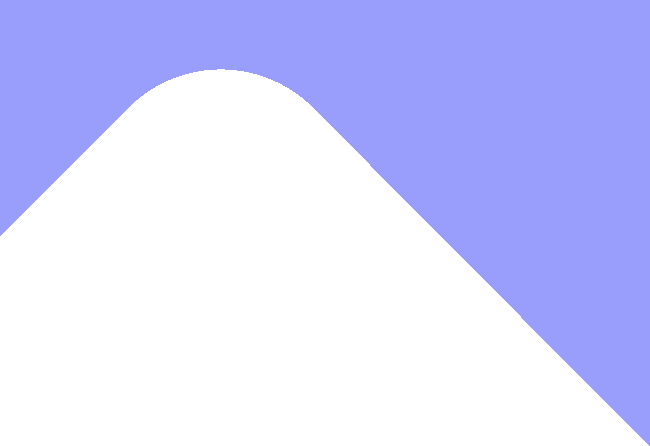
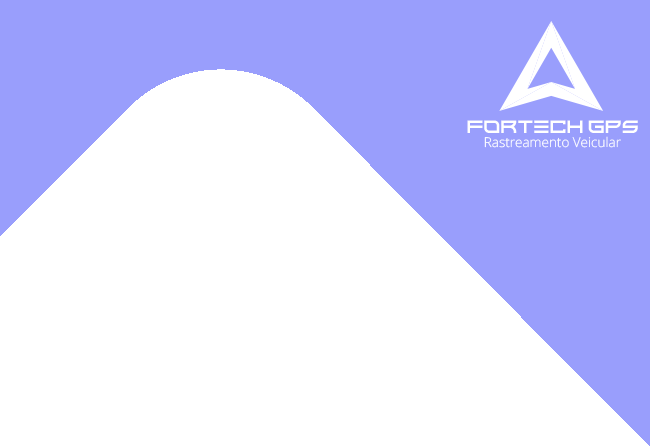
Email.

Changed region(s): [[0.7077, 0.0583, 0.9846, 0.3498]]

diff --git a/resources/views/mail/lembreteCincoDias.blade.php b/resources/views/mail/lembreteCincoDias.blade.php
@@ -1,0 +1,253 @@
+<!DOCTYPE html>
+
+<html lang="en" xmlns:o="urn:schemas-microsoft-com:office:office" xmlns:v="urn:schemas-microsoft-com:vml">
+<head>
+    <title></title>
+    <meta content="text/html; charset=utf-8" http-equiv="Content-Type"/>
+    <meta content="width=device-width, initial-scale=1.0" name="viewport"/>
+    <!--[if mso]><xml><o:OfficeDocumentSettings><o:PixelsPerInch>96</o:PixelsPerInch><o:AllowPNG/></o:OfficeDocumentSettings></xml><![endif]-->
+    <!--[if !mso]><!-->
+    <link href="https://fonts.googleapis.com/css?family=Cabin" rel="stylesheet" type="text/css"/>
+    <link href="https://fonts.googleapis.com/css?family=Montserrat" rel="stylesheet" type="text/css"/>
+    <!--<![endif]-->
+    <style>
+        * {
+            box-sizing: border-box;
+        }
+
+        body {
+            margin: 0;
+            padding: 0;
+        }
+
+        a[x-apple-data-detectors] {
+            color: inherit !important;
+            text-decoration: inherit !important;
+        }
+
+        #MessageViewBody a {
+            color: inherit;
+            text-decoration: none;
+        }
+
+        p {
+            line-height: inherit
+        }
+
+        .desktop_hide,
+        .desktop_hide table {
+            mso-hide: all;
+            display: none;
+            max-height: 0px;
+            overflow: hidden;
+        }
+
+        @media (max-width:670px) {
+            .desktop_hide table.icons-inner {
+                display: inline-block !important;
+            }
+
+            .icons-inner {
+                text-align: center;
+            }
+
+            .icons-inner td {
+                margin: 0 auto;
+            }
+
+            .image_block img.big,
+            .row-content {
+                width: 100% !important;
+            }
+
+            .mobile_hide {
+                display: none;
+            }
+
+            .stack .column {
+                width: 100%;
+                display: block;
+            }
+
+            .mobile_hide {
+                min-height: 0;
+                max-height: 0;
+                max-width: 0;
+                overflow: hidden;
+                font-size: 0px;
+            }
+
+            .desktop_hide,
+            .desktop_hide table {
+                display: table !important;
+                max-height: none !important;
+            }
+        }
+    </style>
+</head>
+<body style="background-color: #000000; margin: 0; padding: 0; -webkit-text-size-adjust: none; text-size-adjust: none;">
+<table border="0" cellpadding="0" cellspacing="0" class="nl-container" role="presentation" style="mso-table-lspace: 0pt; mso-table-rspace: 0pt; background-color: #000000;" width="100%">
+    <tbody>
+    <tr>
+        <td>
+            <table align="center" border="0" cellpadding="0" cellspacing="0" class="row row-2" role="presentation" style="mso-table-lspace: 0pt; mso-table-rspace: 0pt; background-color: #f3e6f8;" width="100%">
+                <tbody>
+                <tr>
+                    <td>
+                        <table align="center" border="0" cellpadding="0" cellspacing="0" class="row-content stack" role="presentation" style="mso-table-lspace: 0pt; mso-table-rspace: 0pt; background-color: #ffffff; background-image: url('https://www.fortechgps.com.br/assets/media/mail/ResetPassword_BG_3.png'); background-position: center top; background-repeat: no-repeat; color: #000000; width: 650px;" width="650">
+                            <tbody>
+                            <tr>
+                                <td class="column column-1" style="mso-table-lspace: 0pt; mso-table-rspace: 0pt; font-weight: 400; text-align: left; vertical-align: top; padding-top: 45px; padding-bottom: 0px; border-top: 0px; border-right: 0px; border-bottom: 0px; border-left: 0px;" width="100%">
+                                    <table border="0" cellpadding="20" cellspacing="0" class="divider_block block-1" role="presentation" style="mso-table-lspace: 0pt; mso-table-rspace: 0pt;" width="100%">
+                                        <tr>
+                                            <td class="pad">
+                                                <div align="center" class="alignment">
+                                                    <table border="0" cellpadding="0" cellspacing="0" role="presentation" style="mso-table-lspace: 0pt; mso-table-rspace: 0pt;" width="100%">
+                                                        <tr>
+                                                            <td class="divider_inner" style="font-size: 1px; line-height: 1px; border-top: 0px solid #BBBBBB;"><span> </span></td>
+                                                        </tr>
+                                                    </table>
+                                                </div>
+                                            </td>
+                                        </tr>
+                                    </table>
+                                    <table border="0" cellpadding="20" cellspacing="0" class="image_block block-2" role="presentation" style="mso-table-lspace: 0pt; mso-table-rspace: 0pt;" width="100%">
+                                        <tr>
+                                            <td class="pad">
+                                                <div align="center" class="alignment" style="line-height:10px"><img alt="Forgot your password?" class="big" src="https://www.fortechgps.com.br/assets/media/mail/lock6.png" style="display: block; height: auto; border: 0; width: 358px; max-width: 100%;" title="Forgot your password?" width="358"/></div>
+                                            </td>
+                                        </tr>
+                                    </table>
+                                    <table border="0" cellpadding="0" cellspacing="0" class="heading_block block-3" role="presentation" style="mso-table-lspace: 0pt; mso-table-rspace: 0pt;" width="100%">
+                                        <tr>
+                                            <td class="pad" style="padding-top:35px;text-align:center;width:100%;">
+                                                <h1 style="margin: 0; color: #2213C0; direction: ltr; font-family: 'Cabin', Arial, 'Helvetica Neue', Helvetica, sans-serif; font-size: 28px; font-weight: 400; letter-spacing: normal; line-height: 120%; text-align: center; margin-top: 0; margin-bottom: 0;"><strong>Olá, Fulano! Tudo bem?</strong></h1>
+                                            </td>
+                                        </tr>
+                                    </table>
+                                    <table border="0" cellpadding="0" cellspacing="0" class="text_block block-4" role="presentation" style="mso-table-lspace: 0pt; mso-table-rspace: 0pt; word-break: break-word;" width="100%">
+                                        <tr>
+                                            <td class="pad" style="padding-left:45px;padding-right:45px;padding-top:10px;">
+                                                <div style="font-family: Arial, sans-serif">
+                                                    <div class="txtTinyMce-wrapper" style="font-size: 12px; font-family: 'Cabin', Arial, 'Helvetica Neue', Helvetica, sans-serif; mso-line-height-alt: 18px; color: #393d47; line-height: 1.5;">
+                                                        <p style="margin: 0; text-align: center; mso-line-height-alt: 27px;"><span style="font-size:18px;color:#2455be;">Sabemos que na correria do dia a dia, pode acontecer de esquecermos alguns compromissos.</span></p>
+                                                        <p style="margin: 0; text-align: center; mso-line-height-alt: 27px;"><span style="font-size:18px;color:#2455be;">Então, com o intuito de te ajudar, vinhemos lembrar que a sua fatura deste mês vence daqui a 5 dia!.</span></p>
+                                                    </div>
+                                                </div>
+                                            </td>
+                                        </tr>
+                                    </table>
+                                    <table border="0" cellpadding="20" cellspacing="0" class="divider_block block-5" role="presentation" style="mso-table-lspace: 0pt; mso-table-rspace: 0pt;" width="100%">
+                                        <tr>
+                                            <td class="pad">
+                                                <div align="center" class="alignment">
+                                                    <table border="0" cellpadding="0" cellspacing="0" role="presentation" style="mso-table-lspace: 0pt; mso-table-rspace: 0pt;" width="80%">
+                                                        <tr>
+                                                            <td class="divider_inner" style="font-size: 1px; line-height: 1px; border-top: 1px solid #E1B4FC;"><span> </span></td>
+                                                        </tr>
+                                                    </table>
+                                                </div>
+                                            </td>
+                                        </tr>
+                                    </table>
+                                    <table border="0" cellpadding="0" cellspacing="0" class="text_block block-6" role="presentation" style="mso-table-lspace: 0pt; mso-table-rspace: 0pt; word-break: break-word;" width="100%">
+                                        <tr>
+                                            <td class="pad" style="padding-bottom:10px;padding-left:45px;padding-right:45px;padding-top:10px;">
+                                                <div style="font-family: Arial, sans-serif">
+                                                    <div class="txtTinyMce-wrapper" style="font-size: 12px; font-family: 'Cabin', Arial, 'Helvetica Neue', Helvetica, sans-serif; text-align: center; mso-line-height-alt: 18px; color: #393d47; line-height: 1.5;">
+                                                        <p style="margin: 0; mso-line-height-alt: 19.5px;"><span style="font-size:13px;color:#2213C0;">Você escolher como quer pagar, Pix, boleto, debito, crédito...</span></p>
+                                                    </div>
+                                                </div>
+                                            </td>
+                                        </tr>
+                                    </table>
+                                    <table border="0" cellpadding="10" cellspacing="0" class="button_block block-7" role="presentation" style="mso-table-lspace: 0pt; mso-table-rspace: 0pt;" width="100%">
+                                        <tr>
+                                            <td class="pad">
+                                                <div align="center" class="alignment">
+                                                    <!--[if mso]><v:roundrect xmlns:v="urn:schemas-microsoft-com:vml" xmlns:w="urn:schemas-microsoft-com:office:word" href="https://www.fortechgps.com.br/Recuperar/kkkkkkkk" style="height:50px;width:239px;v-text-anchor:middle;" arcsize="0%" strokeweight="0.75pt" strokecolor="#2213C0" fillcolor="#2213C0"><w:anchorlock/><v:textbox inset="0px,0px,0px,0px"><center style="color:#ffffff; font-family:Arial, sans-serif; font-size:14px"><![endif]--><a href="https://www.fortechgps.com.br/Recuperar/kkkkkkk" style="text-decoration:none;display:inline-block;color:#ffffff;background-color:#2213C0;border-radius:0px;width:auto;border-top:1px solid #2213C0;font-weight:400;border-right:1px solid #2213C0;border-bottom:1px solid #2213C0;border-left:1px solid #2213C0;padding-top:10px;padding-bottom:10px;font-family:'Cabin', Arial, 'Helvetica Neue', Helvetica, sans-serif;text-align:center;mso-border-alt:none;word-break:keep-all;" target="_blank"><span style="padding-left:40px;padding-right:40px;font-size:14px;display:inline-block;letter-spacing:normal;"><span style="word-break: break-word;"><span data-mce-style="" style="line-height: 28px;">ACESSAR MINHA FATURA</span></span></span></a>
+                                                    <!--[if mso]></center></v:textbox></v:roundrect><![endif]-->
+                                                </div>
+                                            </td>
+                                        </tr>
+                                    </table>
+                                    <table border="0" cellpadding="0" cellspacing="0" class="text_block block-8" role="presentation" style="mso-table-lspace: 0pt; mso-table-rspace: 0pt; word-break: break-word;" width="100%">
+                                        <tr>
+                                            <td class="pad" style="padding-bottom:15px;padding-left:10px;padding-right:10px;padding-top:10px;">
+                                                <div style="font-family: Arial, sans-serif">
+                                                    <div class="txtTinyMce-wrapper" style="font-size: 12px; font-family: 'Cabin', Arial, 'Helvetica Neue', Helvetica, sans-serif; mso-line-height-alt: 14.399999999999999px; color: #393d47; line-height: 1.2;">
+                                                        <p style="margin: 0; font-size: 14px; text-align: center;"><span style="font-size:10px;color:#2455be;"><span style="">Importante lembrar que a inadimplência resulta na aplicação de multa e juros sobre o valor devido, além do bloqueio do seu acesso e impossibilidade do uso dos nossos serviços.</span></span></p>
+                                                    </div>
+                                                </div>
+                                            </td>
+                                        </tr>
+                                    </table>
+                                    <table border="0" cellpadding="0" cellspacing="0" class="text_block block-9" role="presentation" style="mso-table-lspace: 0pt; mso-table-rspace: 0pt; word-break: break-word;" width="100%">
+                                        <tr>
+                                            <td class="pad" style="padding-bottom:20px;padding-left:10px;padding-right:10px;padding-top:10px;">
+                                                <div style="font-family: sans-serif">
+                                                    <div class="txtTinyMce-wrapper" style="font-size: 12px; mso-line-height-alt: 14.399999999999999px; color: #2312c0; line-height: 1.2; font-family: Arial, Helvetica Neue, Helvetica, sans-serif;">
+                                                        <p style="margin: 0; font-size: 14px; text-align: center;"><span style="color:#8a3b8f;">Fortech GPS © ·</span><span style=""> </span><span style=""></span></p>
+                                                    </div>
+                                                </div>
+                                            </td>
+                                        </tr>
+                                    </table>
+                                </td>
+                            </tr>
+                            </tbody>
+                        </table>
+                    </td>
+                </tr>
+                </tbody>
+            </table>
+            <table align="center" border="0" cellpadding="0" cellspacing="0" class="row row-3" role="presentation" style="mso-table-lspace: 0pt; mso-table-rspace: 0pt; background-color: #f3e6f8;" width="100%">
+                <tbody>
+                <tr>
+                    <td>
+                        <table align="center" border="0" cellpadding="0" cellspacing="0" class="row-content stack" role="presentation" style="mso-table-lspace: 0pt; mso-table-rspace: 0pt; color: #000000; width: 650px;" width="650">
+                            <tbody>
+                            <tr>
+                                <td class="column column-1" style="mso-table-lspace: 0pt; mso-table-rspace: 0pt; font-weight: 400; text-align: left; vertical-align: top; padding-top: 5px; padding-bottom: 10px; border-top: 0px; border-right: 0px; border-bottom: 0px; border-left: 0px;" width="100%">
+                                    <table border="0" cellpadding="5" cellspacing="0" class="divider_block block-1" role="presentation" style="mso-table-lspace: 0pt; mso-table-rspace: 0pt;" width="100%">
+                                        <tr>
+                                            <td class="pad">
+                                                <div align="center" class="alignment">
+                                                    <table border="0" cellpadding="0" cellspacing="0" role="presentation" style="mso-table-lspace: 0pt; mso-table-rspace: 0pt;" width="100%">
+                                                        <tr>
+                                                            <td class="divider_inner" style="font-size: 1px; line-height: 1px; border-top: 0px solid #BBBBBB;"><span> </span></td>
+                                                        </tr>
+                                                    </table>
+                                                </div>
+                                            </td>
+                                        </tr>
+                                    </table>
+                                    <table border="0" cellpadding="0" cellspacing="0" class="text_block block-2" role="presentation" style="mso-table-lspace: 0pt; mso-table-rspace: 0pt; word-break: break-word;" width="100%">
+                                        <tr>
+                                            <td class="pad">
+                                                <div style="font-family: sans-serif">
+                                                    <div class="txtTinyMce-wrapper" style="font-size: 12px; mso-line-height-alt: 14.399999999999999px; color: #2213C0; line-height: 1.2; font-family: Arial, Helvetica Neue, Helvetica, sans-serif;">
+                                                        <p style="margin: 0; text-align: center;"><span style="font-size:11px;color:#8a3b8f;">Não conte com a sorte, conte com a Fortech GPS.</span></p>
+
+                                                        <p style="margin: 0; text-align: center; mso-line-height-alt: 14.399999999999999px;"> </p>
+                                                        <p style="margin: 0; text-align: center;"><span style="font-size:11px;"><span style="color:#8a3b8f;">contato@fortechgps.com.br / (85) 3300-1816</span><a href="http://www.fortechgps.com.br" style="color: #2213C0;"></a></span></p>
+                                                        <p style="margin: 0; mso-line-height-alt: 14.399999999999999px;"> </p>
+                                                    </div>
+                                                </div>
+                                            </td>
+                                        </tr>
+                                    </table>
+                                </td>
+                            </tr>
+                            </tbody>
+                        </table>
+                    </td>
+                </tr>
+                </tbody>
+            </table>
+        </td>
+    </tr>
+    </tbody>
+</table><!-- End -->
+</body>
+</html>

diff --git a/app/Mail/LembreteCincoDias.php b/app/Mail/LembreteCincoDias.php
@@ -1,0 +1,36 @@
+<?php
+
+namespace App\Mail;
+
+use Illuminate\Bus\Queueable;
+use Illuminate\Contracts\Queue\ShouldQueue;
+use Illuminate\Mail\Mailable;
+use Illuminate\Queue\SerializesModels;
+
+class LembreteCincoDias extends Mailable
+{
+    use Queueable, SerializesModels;
+
+    /**
+     * Create a new message instance.
+     *
+     * @return void
+     */
+    public function __construct()
+    {
+        //
+    }
+
+    /**
+     * Build the message.
+     *
+     * @return $this
+     */
+    public function build(){
+        $this->subject("Recupeção de senha - Fortech GPS");
+        $this->to($this->uses->email, $this->uses->name);
+        return $this->view('mail.lembreteCincoDias',[
+            'user' => $this->uses
+        ]);
+    }
+}

diff --git a/app/Http/Controllers/CobrancasController.php b/app/Http/Controllers/CobrancasController.php
@@ -14,9 +14,15 @@ class CobrancasController extends Controller{
     public function lista(){
         $title = "Cobrancas";
         return view('cobrancas.lista')->with(compact('title'));
-
-
     }
+
+    public function email(){
+        $title = "Cobrancas";
+        return view('mail.lembreteCincoDias')->with(compact('title'));
+    }
+
+
+
     public function atualiza(Request $request){
 
        $asaas = new Asaas(env('API_ASSAS'), 'producao');
@@ -148,6 +154,8 @@ class CobrancasController extends Controller{
 
 
     }
+
+
 
     public function todasCobrancas(Request $request){
         $columns = array(

diff --git a/resources/views/cobrancas/lista.blade.php b/resources/views/cobrancas/lista.blade.php
@@ -132,7 +132,7 @@
             var pendente = false
         }
         $('#cobrancas').dataTable({
-                "pageLength": 100,
+                "pageLength": 10,
                 "responsive": true,
                 "processing": true,
                 "order": [[ 2, "ASC" ]],
@@ -237,7 +237,7 @@
             var pendente = false
         }
         $('#cobrancas').dataTable({
-                "pageLength": 100,
+                "pageLength": 10,
                 "responsive": true,
                 "processing": true,
                 "order": [[ 2, "ASC" ]],

diff --git a/routes/web.php b/routes/web.php
@@ -56,6 +56,7 @@ Route::middleware(['auth'])->group(function () {
         Route::post('/Cobrancas/Adicionar', 'addPost');
         Route::get('/Cobrancas/Editar/{id}', 'editar');
         Route::post('/Cobrancas/Editar/{id}', 'editarPost');
+        Route::get('/Cobrancas/Email', 'email');
     });
 
 
